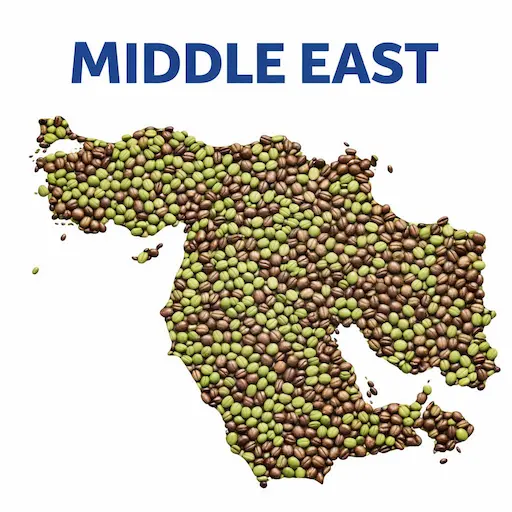
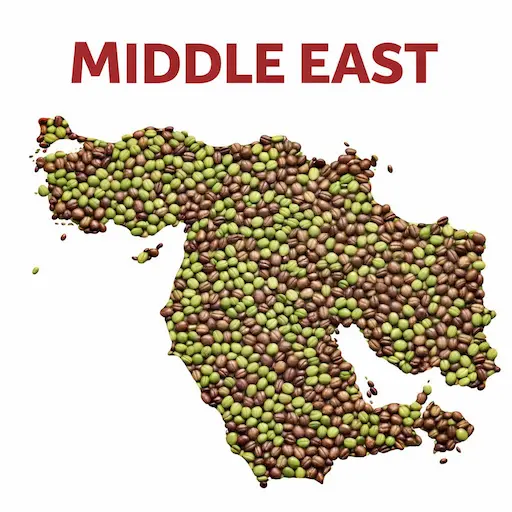
fix: design updates

diff --git a/src/i18n/homeExtended.ts b/src/i18n/homeExtended.ts
@@ -121,7 +121,7 @@ const tr: HomeExtendedShape = {
     'roasted-coffee': 'Hazır ürün',
   },
   portfolioTopSegmentRibbon: 'Üst segment',
-  portfolioMixedRibbon: 'Çoklu profil · proje',
+  portfolioMixedRibbon: 'Çoklu profil',
   portfolioCategories: {
     'competition-lot': {
       title: 'Competition Lot',
@@ -259,7 +259,7 @@ const de: HomeExtendedShape = {
     'roasted-coffee': 'Fertigprodukt',
   },
   portfolioTopSegmentRibbon: 'Oberes Segment',
-  portfolioMixedRibbon: 'Multi-Profil · Projekt',
+  portfolioMixedRibbon: 'Multi-Profil',
   portfolioCategories: {
     'competition-lot': {
       title: 'Competition Lot',
@@ -397,7 +397,7 @@ const en: HomeExtendedShape = {
     'roasted-coffee': 'Shelf-ready',
   },
   portfolioTopSegmentRibbon: 'Top tier',
-  portfolioMixedRibbon: 'Multi-profile · projects',
+  portfolioMixedRibbon: 'Multi-Profile',
   portfolioCategories: {
     'competition-lot': {
       title: 'Competition lot',
@@ -535,7 +535,7 @@ const fr: HomeExtendedShape = {
     'roasted-coffee': 'Produit fini',
   },
   portfolioTopSegmentRibbon: 'Segment haut',
-  portfolioMixedRibbon: 'Multi-profils · projets',
+  portfolioMixedRibbon: 'Multi-profils',
   portfolioCategories: {
     'competition-lot': {
       title: 'Competition lot',
@@ -673,7 +673,7 @@ const es: HomeExtendedShape = {
     'roasted-coffee': 'Producto listo',
   },
   portfolioTopSegmentRibbon: 'Segmento superior',
-  portfolioMixedRibbon: 'Multi-perfil · proyectos',
+  portfolioMixedRibbon: 'Multi-perfil',
   portfolioCategories: {
     'competition-lot': {
       title: 'Competition lot',
